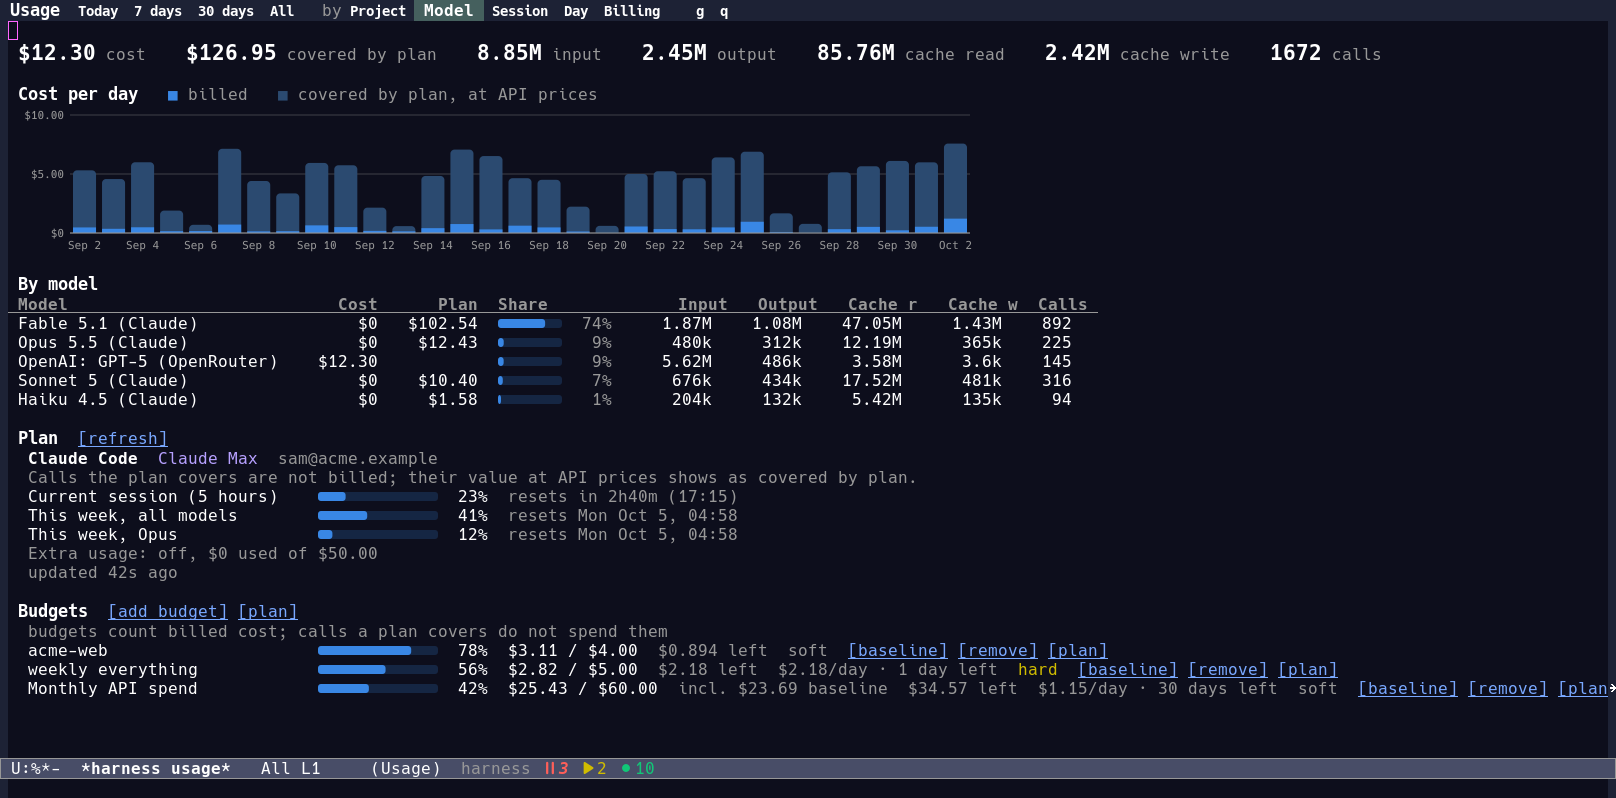
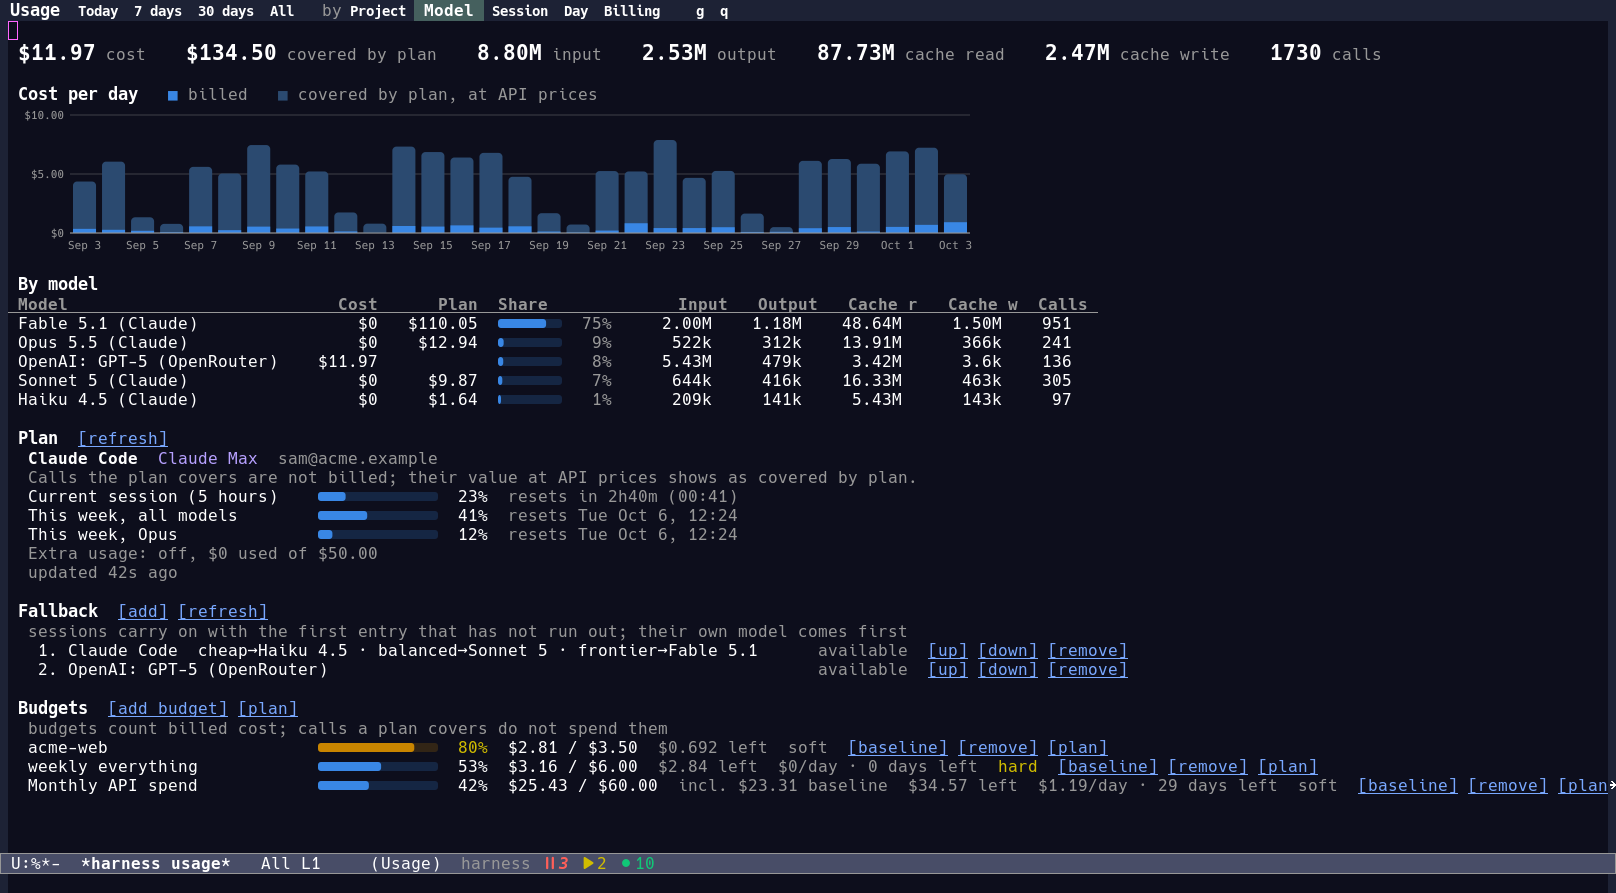
Show the fallback entries' tiers and refresh the usage picture
A provider entry now reads "Claude Code  cheap→Haiku 4.5 ·
balanced→Sonnet 5 · frontier→Fable 5.1", its provider's word left off
the model labels, in a column wide enough for all three tiers.  The
README and the screenshots table mention the section, and docs/media/
usage.png is taken again with the fallback list beneath the plan.  The
dashboard tooltips test kept referring to the buffer name before it was
renamed to harness-ui-usage--buffer-name; it is fixed.

diff --git a/README.md b/README.md
@@ -48,8 +48,8 @@ OpenAI-compatible APIs and AWS Bedrock.
 | A permission request, answered in the chat | A question from the agent, answered with a digit |
 | ![The task board with tasks needing input, in review, in progress, pending and completed](docs/media/tasks.png) | ![The conversation tree of a session, its fork and a BTW](docs/media/tree.png) |
 | The task board: each task has a session and a worktree | The conversation tree of a session, a fork and a BTW |
-| ![The usage dashboard: a month of cost per day, cost by model, the plan's quota and budgets](docs/media/usage.png) | ![The settings page for one project, which overrides two settings](docs/media/settings.png) |
-| Usage: cost per day and model, plan quota, budgets | Settings, here as one project overrides them |
+| ![The usage dashboard: a month of cost per day, cost by model, the plan's quota, the fallback list and budgets](docs/media/usage.png) | ![The settings page for one project, which overrides two settings](docs/media/settings.png) |
+| Usage: cost per day and model, plan quota, fallback list, budgets | Settings, here as one project overrides them |
 | ![The session list with forks, BTWs and task sessions](docs/media/sessions.png) | ![The worktrees of a project, with their branches and sessions](docs/media/worktrees.png) |
 | The session list | The worktrees of a project and their sessions |
 | ![A BTW side conversation open under a session](docs/media/btw.png) | ![The harness menu opened from a chat](docs/media/menu.png) |
@@ -546,7 +546,14 @@ archived tasks are history and are left alone.
 
 The usage dashboard (`C-c h u`) lists every quota window with its reset
 time, the plan's extra usage, and the value at API prices that the plan
-covered.
+covered.  Its Fallback section says where sessions carry on when a
+provider runs out of quota or money: the list is tried in order, each
+entry a provider id (that provider's model of similar ability) or one
+model id, set by `harness-fallback-models`.  There `f` adds an entry,
+`c` forgets that one ran out so it is tried again, `M-<up>` and
+`M-<down>` move the entry at point, and `d` removes it.  A session's
+own model always comes first, and it goes back to it once it works
+again.
 
 Budgets count billed cost only. A budget created partway through a
 month can start from what was already spent outside the harness: press

diff --git a/docs/screenshots.md b/docs/screenshots.md
@@ -49,7 +49,7 @@ The pictures, by the name `scripts/media.sh` takes:
 | `tasks` | The task board, every column filled, a task typed in its box | `harness-media-shot-tasks` |
 | `sessions` | The session list | `harness-media-shot-sessions` |
 | `tree` | The conversation tree: a session, a fork and a BTW | `harness-media-shot-tree` |
-| `usage` | The usage dashboard over 30 days, by model | `harness-media-shot-usage` |
+| `usage` | The usage dashboard over 30 days, by model, with the fallback list beneath the plan | `harness-media-shot-usage` |
 | `worktrees` | The worktrees of the demo project | `harness-media-shot-worktrees` |
 | `settings` | The settings page for the demo project, which overrides two settings | `harness-media-shot-settings` |
 | `btw` | A BTW under the first picture's chat | `harness-media-shot-btw` |
